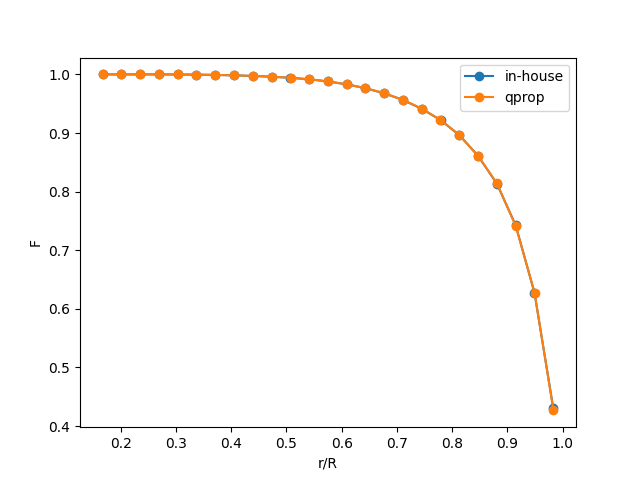
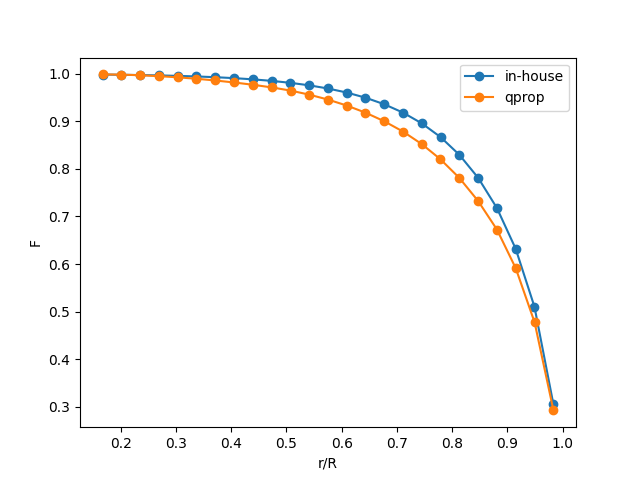
いったんあげる

diff --git a/perform_analysis_qprop.py b/perform_analysis_qprop.py
@@ -13,7 +13,7 @@ RPM = 5000
 rho = 1.225
 omega = RPM * 2 * math.pi / 60
 B = 2
-V = 0.0
+V = 8.5
 CL0 = math.radians(-6)  # example
 DCLDA = 2 * math.pi  # example
 
@@ -58,6 +58,7 @@ plt.clf()
 
 psi = np.zeros(len(r_R))
 
+qpropFactorFlag = False
 for i in range(len(r_R)):
     def equation(psi):
         r = r_R[i] * R
@@ -71,12 +72,20 @@ for i in range(len(r_R)):
         aoa = beta[i] - np.degrees(np.arctan(Wa / Wt))
         W = np.sqrt(Wa**2 + Wt**2)
         cl = np.interp(aoa, alpha, airfoil_cl) * 1 / np.sqrt(1-(W/340)**2)
-        # lamda = r / R * Wa / Wt
-        lamda = V / R / omega 
-        # f = B / 2 * (1 - r/R) / lamda
-        f = B / 2 * (1 - r/R) / lamda *np.sqrt(lamda**2 + 1)
-        F = 2 / math.pi * np.arccos(np.clip(np.exp(-f), -1, 1))
-        gamma = vt * 4 * math.pi * r / B * F# * np.sqrt(1 + (4 * lamda * R / (math.pi * B * r ))**2)
+        print("Wa is ", Wa, "at r/R = ", r_R[i])
+        # --- qprop modify ---
+        if (qpropFactorFlag):
+            lamda = r / R * Wa / Wt
+            f = B / 2 * (1 - r/R) / lamda 
+            f = np.minimum(f, 20)
+            F = 2 / math.pi * np.arccos(np.clip(np.exp(-f), -1, 1))
+            gamma = vt * 4 * math.pi * r / B #* F * np.sqrt(1 + (4 * lamda * R / (math.pi * B * r ))**2)
+        # --- prandtl original ---
+        else:
+            lamda = V / R / omega 
+            f = B / 2 * (1 - r/R) / lamda *np.sqrt(lamda**2 + 1)
+            F = 2 / math.pi * np.arccos(np.clip(np.exp(-f), -1, 1))
+            gamma = vt * 4 * math.pi * r / B * F
         c = c_R[i] * R
         return gamma - 1/2 * W * c * cl
     # initial guess for psi (from QPROP, Drela, 2007)
@@ -102,13 +111,25 @@ va = Wa - Ua
 vt = Ut - Wt
 aoa = beta - np.degrees(np.arctan(Wa / Wt))
 cl = np.interp(aoa, alpha, airfoil_cl)
+# if qpropFactorFlag:
 lamda = r / R * Wa / Wt
 f = B / 2 * (1 - r/R) / lamda
 F = 2 / math.pi * np.arccos(np.clip(np.exp(-f), -1, 1))
+plt.clf()
+plt.plot(r_R, F, label='QPROP F')
 gamma = vt * 4 * math.pi * r / B * F * np.sqrt(1 + (4 * lamda * R / (math.pi * B * r ))**2)
+# else:
+lamda = V / R / omega 
+f = B / 2 * (1 - r/R) / lamda *np.sqrt(lamda**2 + 1)
+F = 2 / math.pi * np.arccos(np.clip(np.exp(-f), -1, 1))
+plt.plot(r_R, F, label='Prandtl F')
+plt.legend()
+plt.savefig('./debug/F-compare.png')
+plt.clf()
+gamma = vt * 4 * math.pi * r / B * F
 
 # load gemoetry txt and interpolate it to r/R
-qprop = np.loadtxt('qprop_validation.txt')
+qprop = np.loadtxt('./secret/qprop_validation_advance.txt')
 qprop_r_R = qprop[:, 0] / R
 qprop_c_R = qprop[:, 1] / R
 qprop_beta = qprop[:, 2]
